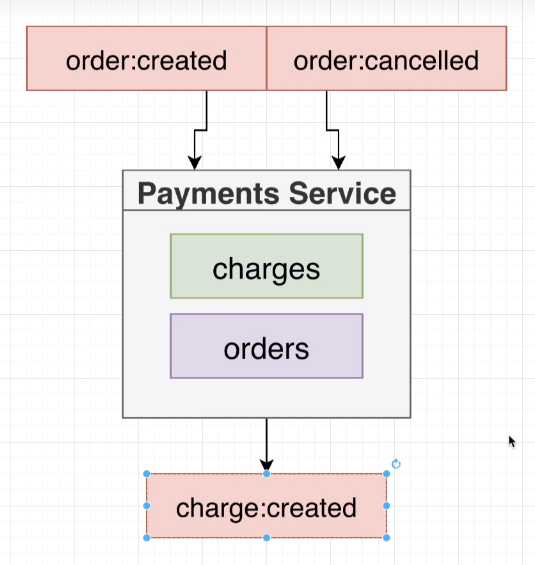
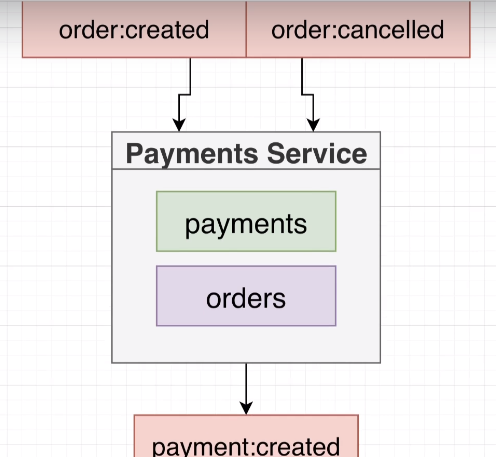
Added common module

Changed region(s): [[0.0, 0.0, 1.0, 1.0], [0.9375, 0.7659, 0.9677, 0.7965], [0.756, 0.4289, 0.7863, 0.4595]]

diff --git a/payments/src/routes/__test__/new.test.ts b/payments/src/routes/__test__/new.test.ts
@@ -3,9 +3,10 @@ import request from 'supertest';
 import { OrderStatus } from '@karantickets/common';
 import { app } from '../../app';
 import mongoose from 'mongoose';
+import { Payment } from '../../models/payment';
 
 import { stripe } from '../../stripe';
-jest.mock('../../stripe');
+// jest.mock('../../stripe');
 
 it('returns a 404 when purchasing an error that does not exist', async () => {
     await request(app)
@@ -55,16 +56,17 @@ it('returns 400 when purchasing a cancelled order', async () => {
             orderId: order.id
         })
         .expect(400);
-    expect(stripe.charges.create).toHaveBeenCalled();
+    // expect(stripe.charges.create).toHaveBeenCalled();
 });
 
 it('returns a 201 with valid inputs', async () => {
-    const userId = new mongoose.Types.ObjectId().toHexString()
+    const userId = new mongoose.Types.ObjectId().toHexString();
+    const price = Math.floor(Math.random() * 100000);
     const order = Order.build({
         id: new mongoose.Types.ObjectId().toHexString(),
         userId,
         version: 0,
-        price: 500,
+        price,
         status: OrderStatus.Created
     });
     await order.save();
@@ -76,4 +78,14 @@ it('returns a 201 with valid inputs', async () => {
             orderId: order.id
         })
         .expect(201);
-});
+    // this is making use of real stripe function instead of mock 
+    const stripeCharges = await stripe.charges.list({ limit: 50 });
+    const stripeCharge = stripeCharges.data.find(charge => {
+        return charge.amount === price * 100
+    });
+    expect(stripeCharge).toBeDefined();
+    expect(stripeCharge!.currency).toEqual('inr');
+
+    const payment = await Payment.findOne({ orderId: order.id, stripeId: stripeCharge!.id });
+    expect(payment).not.toEqual(null);
+}); 

diff --git a/payments/src/routes/new.ts b/payments/src/routes/new.ts
@@ -11,6 +11,7 @@ import {
     OrderStatus
 } from '@karantickets/common';
 import { Order } from '../models/order';
+import { Payment } from '../models/payment';
 
 const router = express.Router();
 
@@ -36,16 +37,30 @@ router.post('/api/payments',
         };
 
         // charge
-        await stripe.charges.create({
+        const charge = await stripe.charges.create({
             currency: 'inr',
             amount: order.price * 100, // because stripe works in least values ie (cents)
             source: token
         });
+
+        // save the payments 
+        const payment = Payment.build({
+            orderId,
+            stripeId: charge.id
+        });
+        // await payment.save();
 
         res.status(201).send({ success: true });
 
     });
 
 export { router as createChargeRouter };
+
+/**
+ * If sometime in the future you need to add a feature for the user to see
+ * list of all the payments, you can make use of the stripeId saved in the
+ * payments DB, create a new route handler which makes 'retrieve charge'
+ * with a <stripeId> to the stripe API.
+ */
 
 

diff --git a/payments/src/models/payment.ts b/payments/src/models/payment.ts
@@ -1,0 +1,39 @@
+import mongoose from 'mongoose';
+
+interface PaymentAttrs {
+    orderId: string;
+    stripeId: string;
+};
+
+interface PaymentDoc extends mongoose.Document {
+    orderId: string;
+    stripeId: string;
+};
+
+interface PaymentModel extends mongoose.Model<PaymentDoc> {
+    build(attrs: PaymentAttrs): PaymentDoc;
+};
+
+const paymentSchema = new mongoose.Schema({
+    orderId: { required: true, type: String },
+    stripeId: { required: true, type: String }
+}, {
+    toJSON: {
+        transform(doc, ret) {
+            ret.id = ret._id,
+                delete ret._id
+        }
+    }
+});
+paymentSchema.statics.build = (attrs: PaymentAttrs) => {
+    return new Payment(attrs);
+};
+const Payment = mongoose.model<PaymentDoc, PaymentModel>('Payment', paymentSchema);
+export { Payment };
+
+/**
+ * If sometime in the future you need to add a feature for the user to see
+ * list of all the payments, you can make use of the stripeId saved in the
+ * payments DB, create a new route handler which makes 'retrieve charge'
+ * with a <stripeId> to the stripe API.
+ */

diff --git a/payments/src/test/setup.ts b/payments/src/test/setup.ts
@@ -2,7 +2,10 @@ import { MongoMemoryServer } from 'mongodb-memory-server';
 import mongoose from 'mongoose';
 // to make use of the mock file 
 // this will make nats-wrapper make use of this mock file instead of the real file
+
 jest.mock('../nats-wrapper');
+
+process.env.STRIPE_KEY = 'sk_test_51HBfOiAwrVXa1QJ5kqZ2drd3FZdSMSkt1hzEoclnYTrU1MOCx9dYMcVuREM0P0k1g7BdEPKlCt2YqeKA1irtO0p000oSF8rgcv';
 
 /************************************************************
  * MongoMemoryServer is going to run an instance of mongodb

diff --git a/common/src/events/subjects.ts b/common/src/events/subjects.ts
@@ -9,6 +9,9 @@ export enum Subjects {
     OrderCancelled = 'order:cancelled',
 
     //expiration 
-    ExpirationComplete = 'expiration:complete'
+    ExpirationComplete = 'expiration:complete',
+
+    // payments 
+    PaymentCreated = 'payment:created'
 }
 

diff --git a/common/src/events/payment-create-event.ts b/common/src/events/payment-create-event.ts
@@ -1,0 +1,9 @@
+import { Subjects } from './subjects';
+
+export interface PaymentCreatedEvent {
+    subject: Subjects.PaymentCreated,
+    data: {
+        orderId: string;
+        stripeId: string;
+    }
+}
